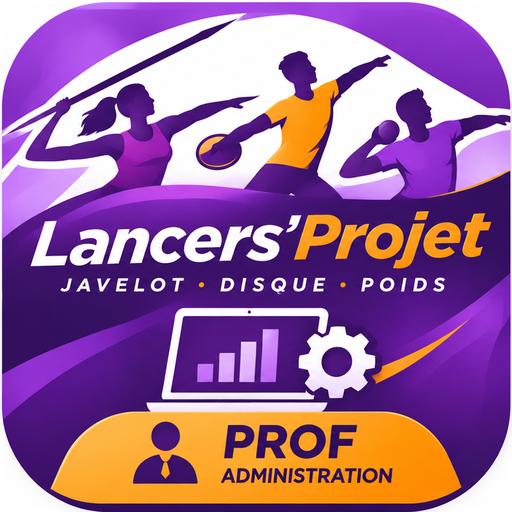
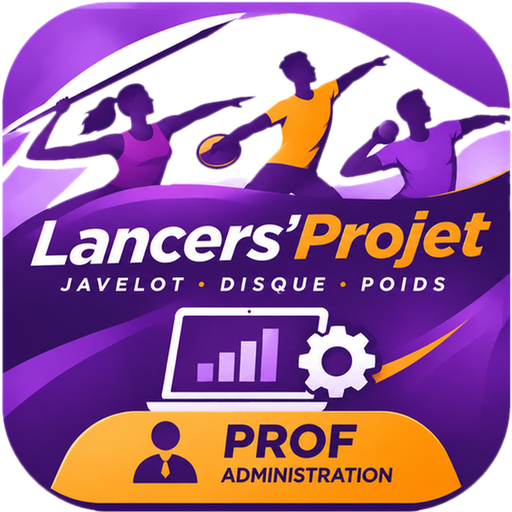
Icônes d'installation détourées (fond transparent) + maskable, manifeste corrigé
Claude-Session: https://claude.ai/code/session_01DWMzvDjuQqdn6i5FnQMur8

diff --git a/index.html b/index.html
@@ -1,7 +1,7 @@
 <!DOCTYPE html><html lang="fr"><head><meta charset="utf-8">
 <meta name="viewport" content="width=device-width,initial-scale=1,viewport-fit=cover">
 <title>LancerPerf – Prof</title><link rel="manifest" href="manifest.webmanifest"><meta name="theme-color" content="#1c0b45">
-<link rel="icon" href="icons/icon-192.png"><link rel="apple-touch-icon" href="icons/icon-192.png">
+<link rel="icon" href="icons/icon-192.png"><link rel="apple-touch-icon" href="icons/icon-maskable-192.png">
 <link rel="stylesheet" href="lancers.css">
 
 <style id="titre-moderne">/* Titre en casse mixte + logo mis en valeur, aux couleurs du logo */

diff --git a/version.js b/version.js
@@ -1,1 +1,1 @@
-const APP_VERSION="1.2.4"; // ← seul endroit à modifier pour changer la version
+const APP_VERSION="1.2.5"; // ← seul endroit à modifier pour changer la version
